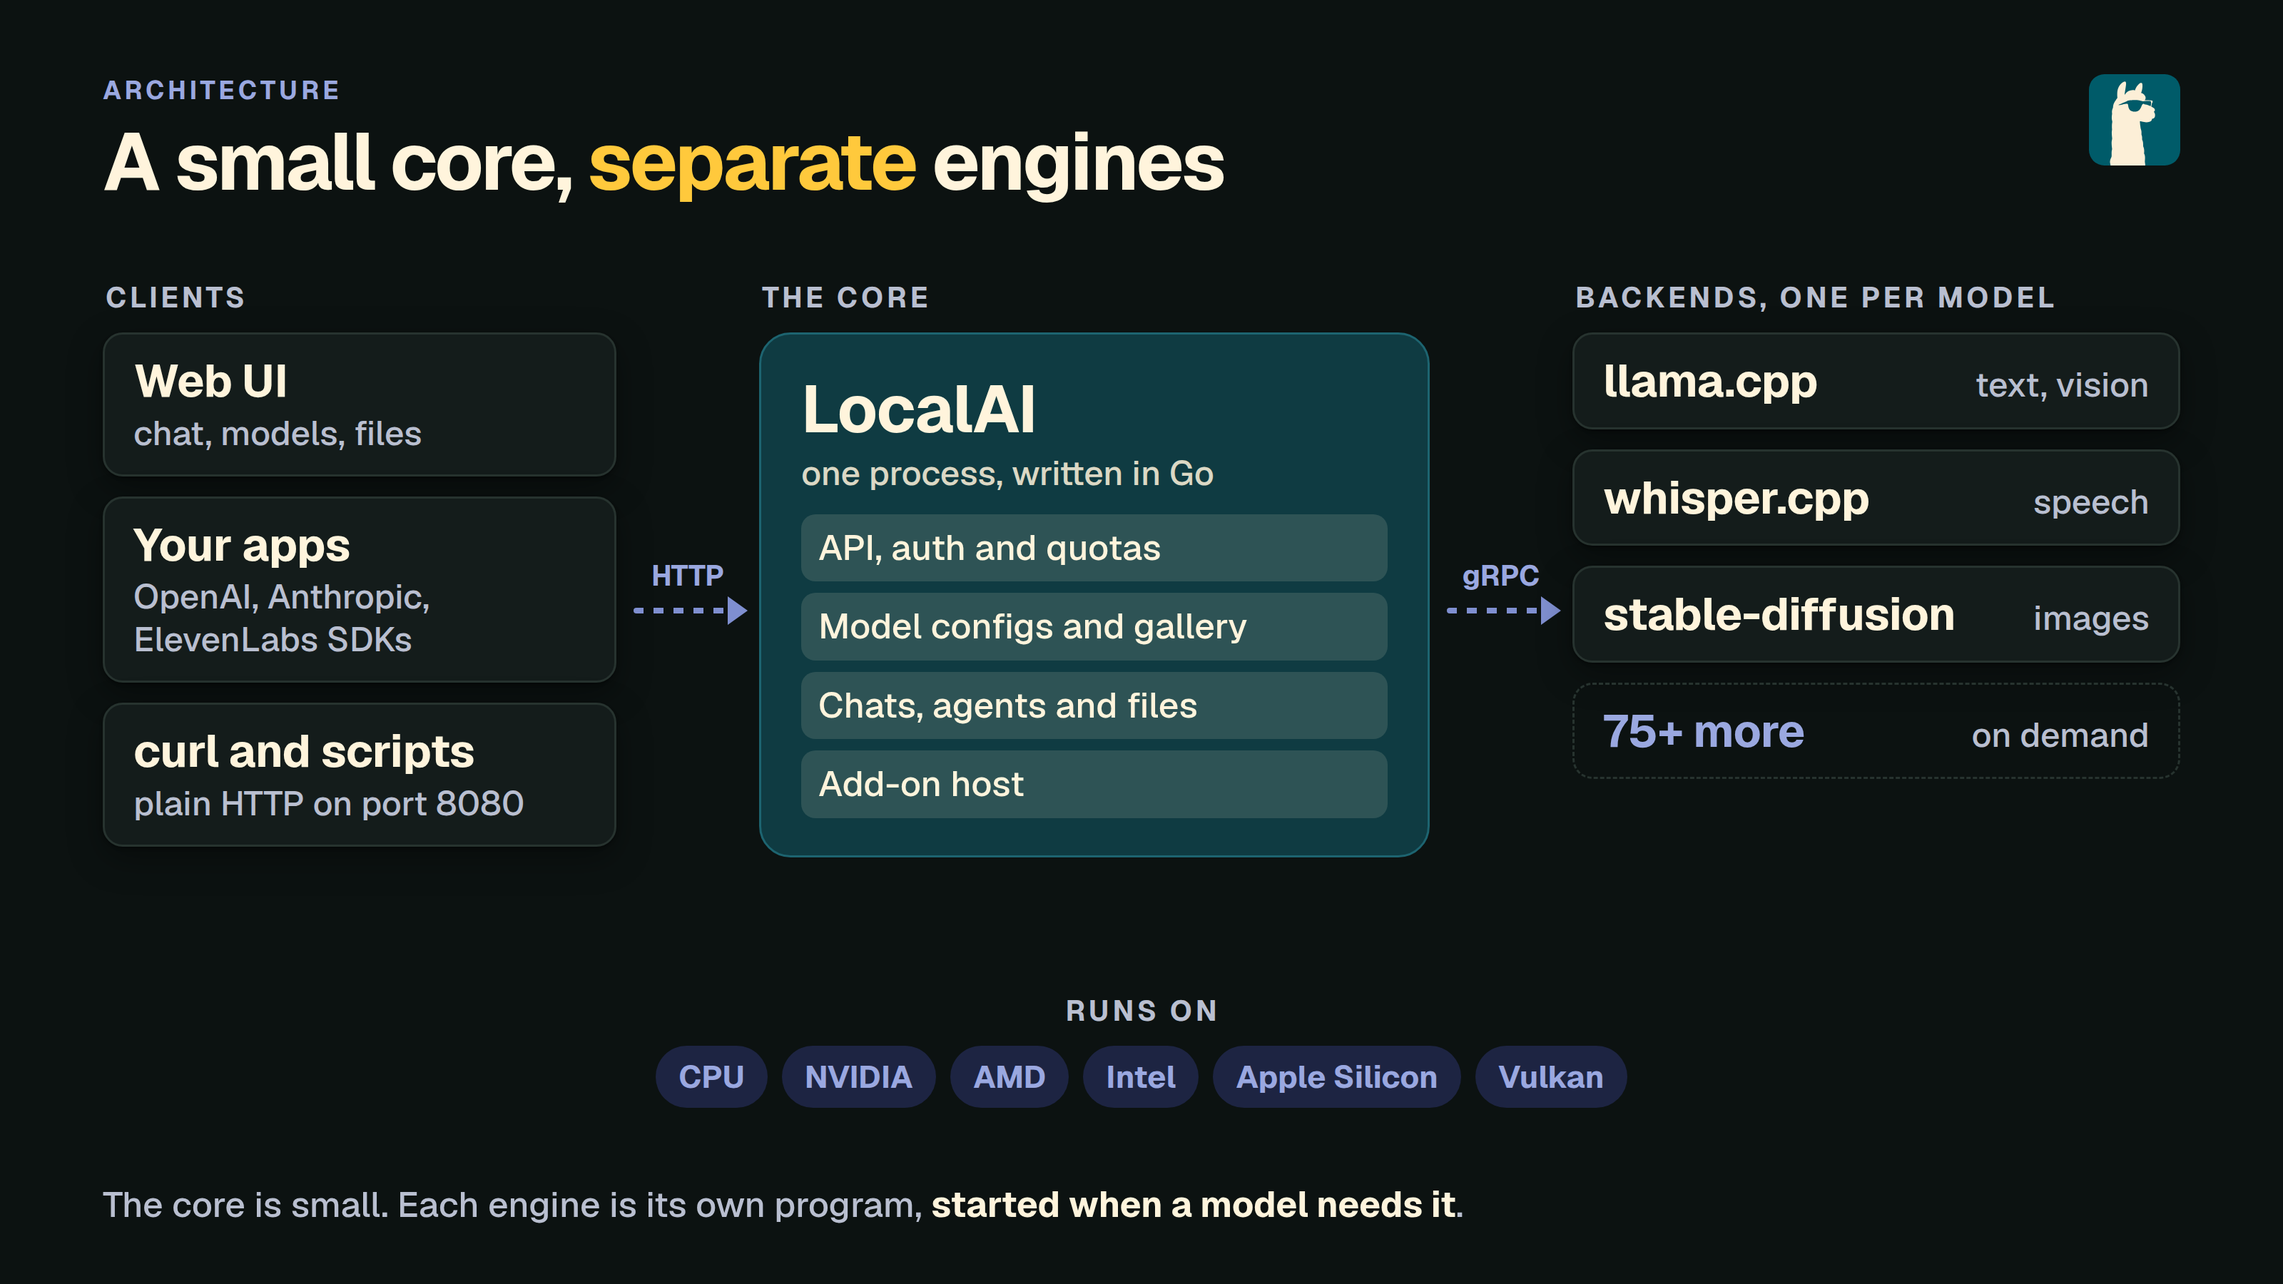
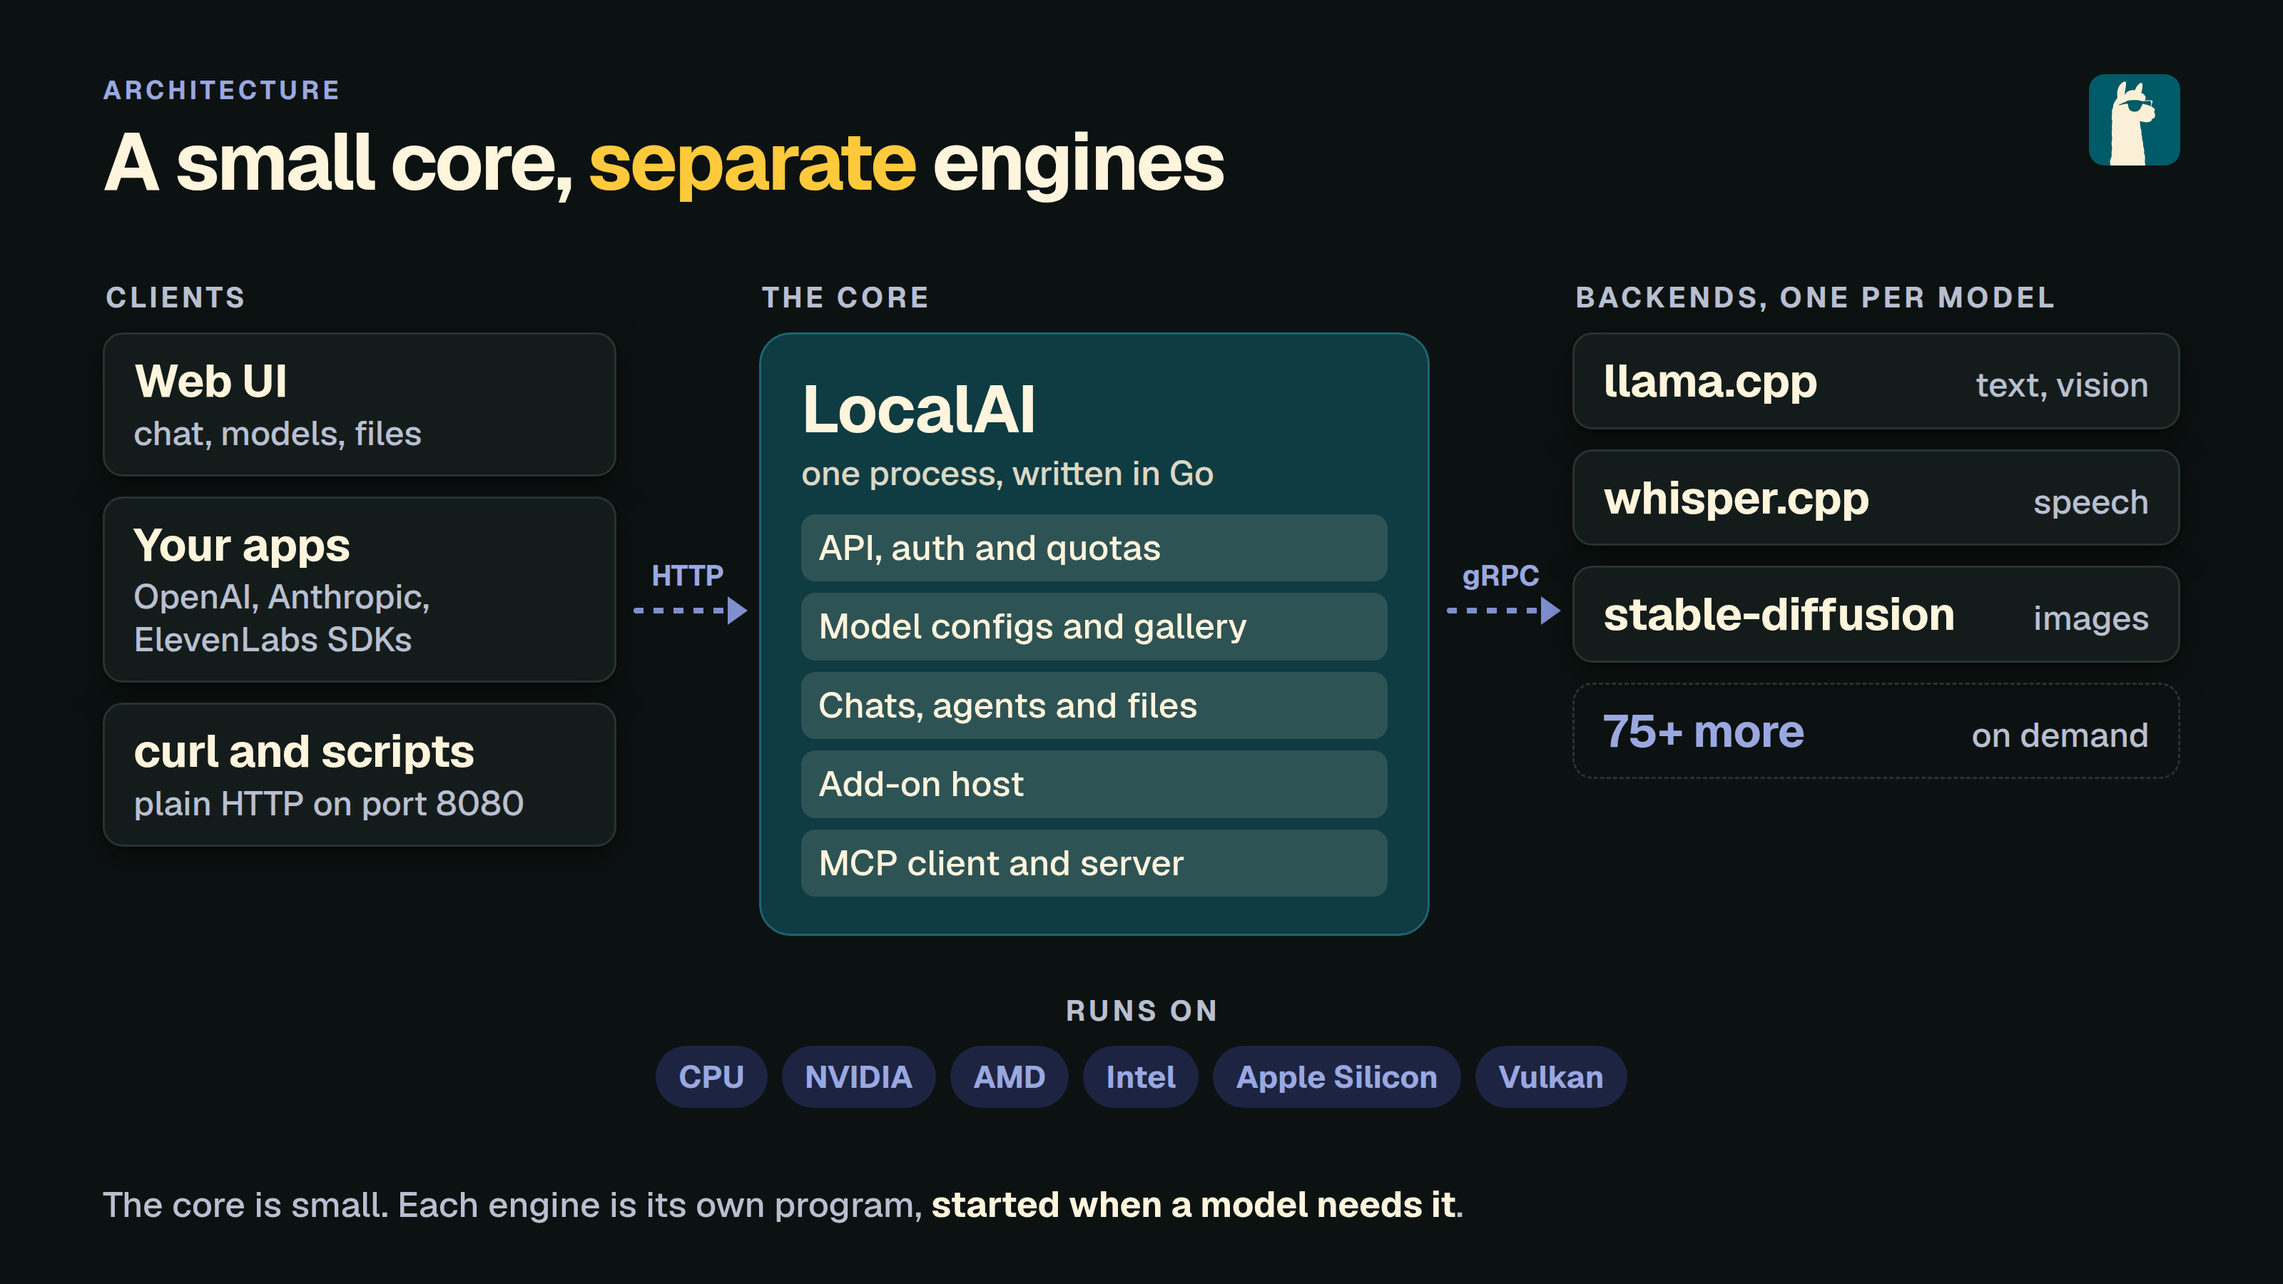
docs: show MCP in the 5.0 diagrams
The core and assistant pictures did not name MCP. Add an MCP client and
server cell to the core in the composable-core and architecture
diagrams, and MCP tools (built in) and Tables (add-on) to the assistant
story. The MCP diagram said the tool loop stops after 10 steps; that is
the API default, chats stop after 40. Extend the alt texts to match.

Assisted-by: Claude Code:claude-sonnet-5-5

Changed region(s): [[0.3125, 0.6222, 0.625, 0.7467]]

diff --git a/docs/static/images/diagrams/assistant-story.html b/docs/static/images/diagrams/assistant-story.html
@@ -9,17 +9,19 @@
 <img class="mark" src="tile.svg" alt="">
 <div class="stage c">
 
-<div class="grid" style="grid-template-columns:1fr 56px 1.05fr 56px 1fr;grid-template-rows:repeat(3,auto);row-gap:14px;align-items:center">
- <div style="grid-row:1;grid-column:1"><div class="node" style="padding:12px 18px"><div class="row" style="justify-content:space-between"><b style="font-size:30px">Files</b><em class="pill" style="font-style:normal;font-size:19px;padding:4px 12px">built in</em></div><span style="font-size:22px">yours, shared by folder</span></div></div><div class="ar" style="grid-row:1;grid-column:2;width:50px;justify-self:center"></div>
- <div style="grid-row:2;grid-column:1"><div class="node" style="padding:12px 18px"><div class="row" style="justify-content:space-between"><b style="font-size:30px">Collections</b><em class="pill" style="font-style:normal;font-size:19px;padding:4px 12px">built in</em></div><span style="font-size:22px">search your documents</span></div></div><div class="ar" style="grid-row:2;grid-column:2;width:50px;justify-self:center"></div>
- <div style="grid-row:3;grid-column:1"><div class="node" style="padding:12px 18px"><div class="row" style="justify-content:space-between"><b style="font-size:30px">Team</b><em class="pill" style="font-style:normal;font-size:19px;padding:4px 12px">built in</em></div><span style="font-size:22px">users, roles, sharing</span></div></div><div class="ar" style="grid-row:3;grid-column:2;width:50px;justify-self:center"></div>
- <div class="node core cen" style="grid-row:1 / span 3;grid-column:3;padding:40px 24px"><b style="font-size:46px">Your assistant</b><span style="font-size:25px;margin-top:10px">Chats and saved agents that use tools, files and skills</span></div>
- <div class="ar back" style="grid-row:1;grid-column:4;width:50px;justify-self:center"></div><div style="grid-row:1;grid-column:5"><div class="node" style="padding:12px 18px"><div class="row" style="justify-content:space-between"><b style="font-size:30px">Sandbox</b><em class="pill" style="font-style:normal;font-size:19px;padding:4px 12px">add-on</em></div><span style="font-size:22px">run Python and shell, isolated</span></div></div>
- <div class="ar back" style="grid-row:2;grid-column:4;width:50px;justify-self:center"></div><div style="grid-row:2;grid-column:5"><div class="node" style="padding:12px 18px"><div class="row" style="justify-content:space-between"><b style="font-size:30px">Office</b><em class="pill" style="font-style:normal;font-size:19px;padding:4px 12px">add-on</em></div><span style="font-size:22px">write Word, Excel, PowerPoint, PDF</span></div></div>
- <div class="ar back" style="grid-row:3;grid-column:4;width:50px;justify-self:center"></div><div style="grid-row:3;grid-column:5"><div class="node" style="padding:12px 18px"><div class="row" style="justify-content:space-between"><b style="font-size:30px">Chat apps</b><em class="pill" style="font-style:normal;font-size:19px;padding:4px 12px">add-on</em></div><span style="font-size:22px">Telegram, Slack, Discord</span></div></div>
+<div class="grid" style="grid-template-columns:1fr 56px 1.05fr 56px 1fr;grid-template-rows:repeat(4,auto);row-gap:8px;align-items:center">
+ <div style="grid-row:1;grid-column:1"><div class="node" style="padding:8px 18px"><div class="row" style="justify-content:space-between"><b style="font-size:30px">Files</b><em class="pill" style="font-style:normal;font-size:19px;padding:4px 12px">built in</em></div><span style="font-size:22px">yours, shared by folder</span></div></div><div class="ar" style="grid-row:1;grid-column:2;width:50px;justify-self:center"></div>
+ <div style="grid-row:2;grid-column:1"><div class="node" style="padding:8px 18px"><div class="row" style="justify-content:space-between"><b style="font-size:30px">Collections</b><em class="pill" style="font-style:normal;font-size:19px;padding:4px 12px">built in</em></div><span style="font-size:22px">search your documents</span></div></div><div class="ar" style="grid-row:2;grid-column:2;width:50px;justify-self:center"></div>
+ <div style="grid-row:3;grid-column:1"><div class="node" style="padding:8px 18px"><div class="row" style="justify-content:space-between"><b style="font-size:30px">Team</b><em class="pill" style="font-style:normal;font-size:19px;padding:4px 12px">built in</em></div><span style="font-size:22px">users, roles, sharing</span></div></div><div class="ar" style="grid-row:3;grid-column:2;width:50px;justify-self:center"></div>
+ <div class="node core cen" style="grid-row:1 / span 4;grid-column:3;padding:40px 24px"><b style="font-size:46px">Your assistant</b><span style="font-size:25px;margin-top:10px">Chats and saved agents that use tools, files and skills</span></div>
+ <div class="ar back" style="grid-row:1;grid-column:4;width:50px;justify-self:center"></div><div style="grid-row:1;grid-column:5"><div class="node" style="padding:8px 18px"><div class="row" style="justify-content:space-between"><b style="font-size:30px">Sandbox</b><em class="pill" style="font-style:normal;font-size:19px;padding:4px 12px">add-on</em></div><span style="font-size:22px">run Python and shell, isolated</span></div></div>
+ <div class="ar back" style="grid-row:2;grid-column:4;width:50px;justify-self:center"></div><div style="grid-row:2;grid-column:5"><div class="node" style="padding:8px 18px"><div class="row" style="justify-content:space-between"><b style="font-size:30px">Office</b><em class="pill" style="font-style:normal;font-size:19px;padding:4px 12px">add-on</em></div><span style="font-size:22px">write Word, Excel, PowerPoint, PDF</span></div></div>
+ <div class="ar back" style="grid-row:3;grid-column:4;width:50px;justify-self:center"></div><div style="grid-row:3;grid-column:5"><div class="node" style="padding:8px 18px"><div class="row" style="justify-content:space-between"><b style="font-size:30px">Chat apps</b><em class="pill" style="font-style:normal;font-size:19px;padding:4px 12px">add-on</em></div><span style="font-size:22px">Telegram, Slack, Discord</span></div></div>
+<div style="grid-row:4;grid-column:1"><div class="node" style="padding:8px 18px"><div class="row" style="justify-content:space-between"><b style="font-size:30px">MCP tools</b><em class="pill" style="font-style:normal;font-size:19px;padding:4px 12px">built in</em></div><span style="font-size:22px">your own MCP servers</span></div></div><div class="ar" style="grid-row:4;grid-column:2;width:50px;justify-self:center"></div>
+ <div class="ar back" style="grid-row:4;grid-column:4;width:50px;justify-self:center"></div><div style="grid-row:4;grid-column:5"><div class="node" style="padding:8px 18px"><div class="row" style="justify-content:space-between"><b style="font-size:30px">Tables</b><em class="pill" style="font-style:normal;font-size:19px;padding:4px 12px">add-on</em></div><span style="font-size:22px">structured data</span></div></div>
 </div>
-<div class="row" style="justify-content:center"><div class="ar v" style="height:36px"></div></div>
-<div class="panel" style="padding:16px 22px 20px"><h3>Under it, models and backends you choose</h3>
+<div class="row" style="justify-content:center"><div class="ar v" style="height:22px"></div></div>
+<div class="panel" style="padding:12px 22px 14px"><h3>Under it, models and backends you choose</h3>
  <div class="row" style="gap:16px;align-items:stretch"><div class="node fl" style=""><b>Models</b><span>gallery, Hugging Face, OCI</span></div><div class="node fl" style=""><b>Backends</b><span>llama.cpp, vLLM, MLX, 75+ more</span></div><div class="node fl" style=""><b>Your hardware</b><span>CPU, NVIDIA, AMD, Intel, Apple Silicon</span></div></div></div>
 
 </div>

diff --git a/docs/static/images/diagrams/composable-core.html b/docs/static/images/diagrams/composable-core.html
@@ -10,7 +10,7 @@
 .core .t b { font-size: 46px; letter-spacing: -.02em; }
 .core ul { list-style: none; padding: 0; margin: 20px 0 0; display: grid; grid-template-columns: 1fr 1fr; gap: 10px; }
 .core li { font-size: 21px; background: rgb(255 244 220 / .13); border-radius: 10px; padding: 9px 12px; line-height: 1.2; }
-.hw { position: absolute; left: 50%; transform: translateX(-50%); top: 408px; width: 760px; text-align: center; }
+.hw { position: absolute; left: 50%; transform: translateX(-50%); top: 470px; width: 760px; text-align: center; }
 .hw .chips { display: flex; flex-wrap: wrap; justify-content: center; gap: 10px; margin-top: 10px; }
 .col3 .node b { font-size: 28px; } .col3 .node span { font-size: 21px; }
 .hw .pill { font-size: 20px; padding: 6px 14px; }
@@ -35,7 +35,7 @@
   </div>
   <div class="node core">
     <div class="t"><small>The core</small><b>LocalAI</b></div>
-    <ul><li>OpenAI and Anthropic API</li><li>Chats and agents</li><li>Files and Collections</li><li>Team and sharing</li><li>Home and pages</li><li>Model gallery</li></ul>
+    <ul><li>OpenAI and Anthropic API</li><li>Chats and agents</li><li>Files and Collections</li><li>Team and sharing</li><li>Home and pages</li><li>Model gallery</li><li style="grid-column:1/-1">MCP client and server, for agent tools</li></ul>
   </div>
   <div class="hw"><div class="lab">Runs on</div><div class="chips"><span class="pill">CPU</span><span class="pill">NVIDIA</span><span class="pill">AMD</span><span class="pill">Intel</span><span class="pill">Apple Silicon</span><span class="pill">Vulkan</span></div></div>
   <div class="col3 r"><div class="lab">Add-ons, from an admin</div>

diff --git a/docs/static/images/diagrams/architecture-overview.html b/docs/static/images/diagrams/architecture-overview.html
@@ -21,7 +21,7 @@
   <div class="abs" style="left:372px;top:230px;width:76px"><div class="ar" data-l="HTTP" style="width:76px"></div></div>
   <div class="pane" style="left:460px;width:470px"><div class="lab">The core</div>
     <div class="node core"><b>LocalAI</b><span>one process, written in Go</span>
-      <ul><li>API, auth and quotas</li><li>Model configs and gallery</li><li>Chats, agents and files</li><li>Add-on host</li></ul></div></div>
+      <ul><li>API, auth and quotas</li><li>Model configs and gallery</li><li>Chats, agents and files</li><li>Add-on host</li><li>MCP client and server</li></ul></div></div>
   <div class="abs" style="left:942px;top:230px;width:80px"><div class="ar" data-l="gRPC" style="width:76px"></div></div>
   <div class="pane" style="left:1030px;width:426px"><div class="lab">Backends, one per model</div><div class="col">
     <div class="node rowline"><b>llama.cpp</b><span>text, vision</span></div>

diff --git a/docs/static/images/diagrams/mcp-server-vs-client.html b/docs/static/images/diagrams/mcp-server-vs-client.html
@@ -17,7 +17,7 @@
     <div class="row">
       <div class="node" style="width:290px"><b>Your client</b><span>chat or API call</span></div>
       <div class="ar" style="width:70px"></div>
-      <div class="node core fl"><b>LocalAI runs the loop</b><span>model, tool call, tool result, model again</span><span style="margin-top:8px">Stops after <span class="code" style="display:inline;color:inherit">agent.max_iterations</span> steps, 10 by default</span></div>
+      <div class="node core fl"><b>LocalAI runs the loop</b><span>model, tool call, tool result, model again</span><span style="margin-top:8px">Stops after <span class="code" style="display:inline;color:inherit">agent.max_iterations</span> steps<br>(10 on the API, 40 in chats)</span></div>
       <div class="ar" style="width:70px"></div>
       <div class="node" style="width:290px"><b>MCP servers</b><span>HTTP or stdio</span></div>
     </div></div>

diff --git a/README.md b/README.md
@@ -24,7 +24,7 @@
 - **Every kind of model, one API**: text, vision, voice, images, video and embeddings, in the OpenAI, Anthropic and ElevenLabs formats, with more than 80 backends. Each backend is its own image, pulled only when a model needs it.
 - **Your hardware**: NVIDIA, AMD, Intel, Apple Silicon, Vulkan, NVIDIA Jetson or CPU only. The server, the models and your files stay on your own machines.
 
-![LocalAI is a small core with an API, chats and agents, files, collections, team sharing and a model gallery. Backends such as llama.cpp, vLLM, MLX and whisper.cpp plug in on one side, add-ons such as Office, Sandbox, Tables and chat apps on the other. It runs on CPU, NVIDIA, AMD, Intel, Apple Silicon and Vulkan.](docs/static/images/diagrams/composable-core.png)
+![LocalAI is a small core with an API, chats and agents, files, collections, team sharing, a model gallery and an MCP client and server for agent tools. Backends such as llama.cpp, vLLM, MLX and whisper.cpp plug in on one side, add-ons such as Office, Sandbox, Tables and chat apps on the other. It runs on CPU, NVIDIA, AMD, Intel, Apple Silicon and Vulkan.](docs/static/images/diagrams/composable-core.png)
 
 Created by [Ettore Di Giacinto](https://github.com/mudler) and maintained by the [LocalAI team](#team).
 

diff --git a/docs/content/concepts/architecture.md b/docs/content/concepts/architecture.md
@@ -11,7 +11,7 @@ LocalAI is an API written in Go. It follows the OpenAI API, so software that use
 
 LocalAI uses a mixture of backends written in various languages (C++, Golang, Python, ...). You can check [the model compatibility table]({{%relref "/models/compatibility-table" %}}) to learn about all the components of LocalAI.
 
-{{< diagram "architecture-overview" "How LocalAI works: clients call one API on a small core, which talks over gRPC to a separate backend process for each model, running on your own hardware." >}}
+{{< diagram "architecture-overview" "How LocalAI works: clients call one API on a small core with chats, agents, an add-on host and an MCP client and server, which talks over gRPC to a separate backend process for each model, running on your own hardware." >}}
 
 {{< diagram "request-flow" "How a request flows: the client calls the API, the model config picks a backend, the backend process runs the model over gRPC on your hardware, and tokens stream back." >}}
 

diff --git a/docs/content/start/whats-new.md b/docs/content/start/whats-new.md
@@ -16,7 +16,7 @@ This page lists the main capabilities of LocalAI 5.0. Each one has a tag.
 | **Add-on** | Comes from the add-on library. An administrator installs it. In the current development builds, the add-ons are in the development channel of the library, so they can change. |
 | **Admin on** | Built in, but on a server with accounts an administrator must switch it on for each user. With authentication off, you are the administrator and it is on. |
 
-{{< diagram "assistant-story" "Your assistant sits in the middle, with Files, Collections and Team built in and Sandbox, Office and chat apps as add-ons. Models, backends and your own hardware are underneath." >}}
+{{< diagram "assistant-story" "Your assistant sits in the middle, with Files, Collections, Team and MCP tools built in and Sandbox, Office, Tables and chat apps as add-ons. Models, backends and your own hardware are underneath." >}}
 
 ## The ten capabilities
 

diff --git a/docs/content/start/overview.md b/docs/content/start/overview.md
@@ -13,7 +13,7 @@ aliases = ["/overview/"]
 
 LocalAI is an AI server that runs on your own hardware. A small core speaks the OpenAI and Anthropic APIs. Each model backend is added only when you need it. Many existing clients work with it.
 
-{{< diagram "architecture-overview" "How LocalAI works: clients call one API on a small core, which talks over gRPC to a separate backend process for each model, running on your own hardware." >}}
+{{< diagram "architecture-overview" "How LocalAI works: clients call one API on a small core with chats, agents, an add-on host and an MCP client and server, which talks over gRPC to a separate backend process for each model, running on your own hardware." >}}
 
 ## Why LocalAI
 

diff --git a/docs/content/features/chats-and-agents/mcp.md b/docs/content/features/chats-and-agents/mcp.md
@@ -8,7 +8,7 @@ tags = ["MCP", "Agents", "Tools", "Advanced"]
 categories = ["Features"]
 +++
 
-{{< diagram "mcp-server-vs-client" "Server-side vs client-side MCP: the model's tool loop runs on the server or in the browser" >}}
+{{< diagram "mcp-server-vs-client" "Server-side vs client-side MCP: the model's tool loop runs on the server, which stops after agent.max_iterations steps, or an add-on page holds an MCP client in the browser behind the CORS proxy" >}}
 
 
 LocalAI supports the **Model Context Protocol (MCP)**. MCP connects models to external tools and services. Your models can use MCP servers to get live data, call APIs and use specialised tools.
